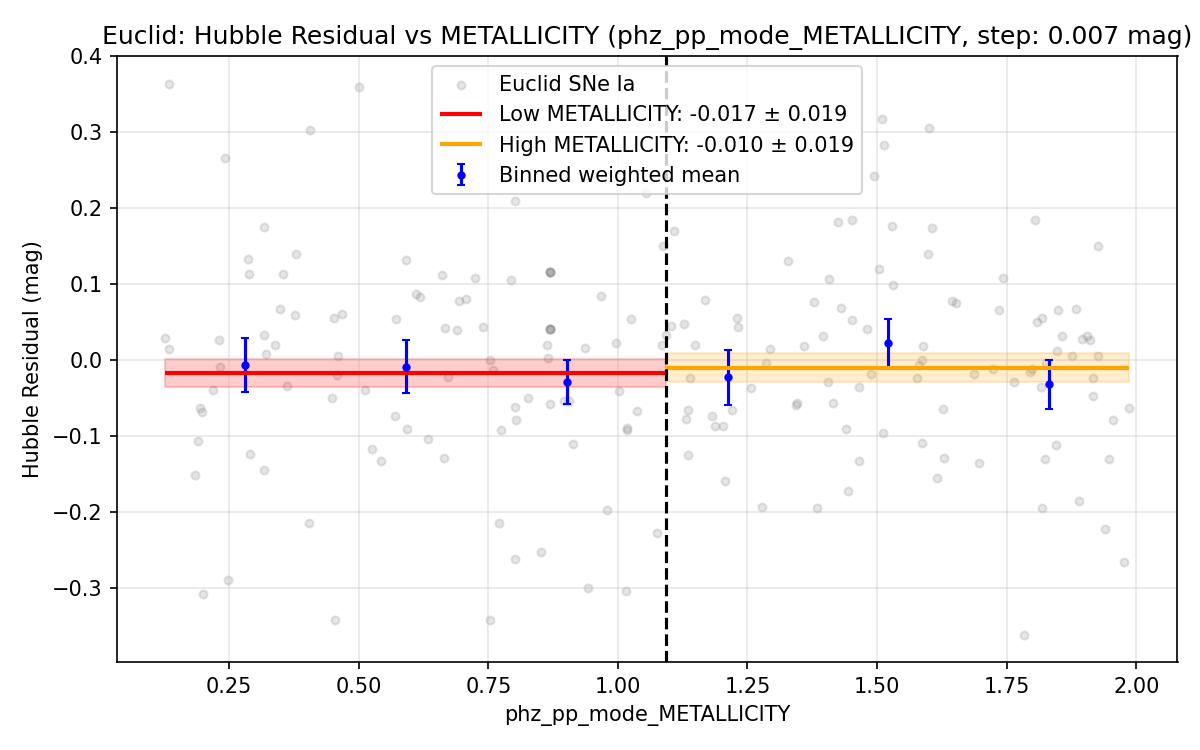
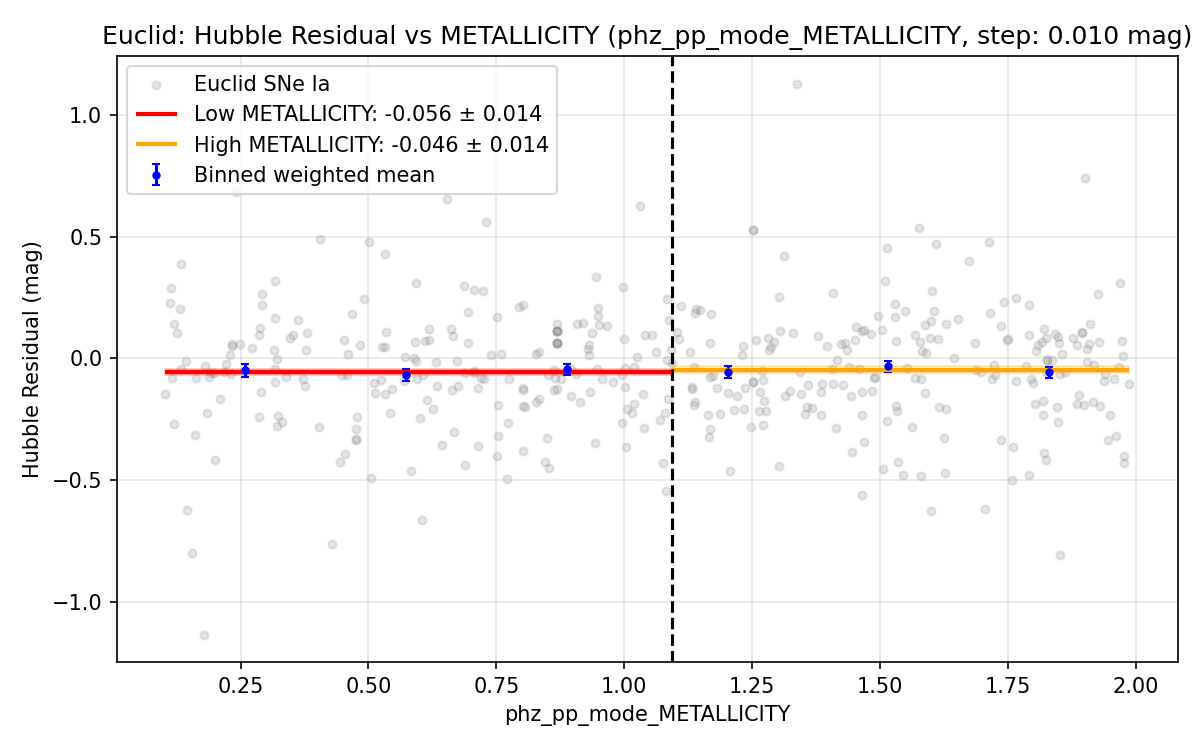
Tidy up
Removed bias correction for when mass wasn't calculated
Reran for better output graphs

diff --git a/DES Analysis/analysis_tools.py b/DES Analysis/analysis_tools.py
@@ -23,6 +23,21 @@ def calculate_physics(df, alpha=ALPHA, beta=BETA, m0=M0_AVG, omega_m=OMEGA_M):
     df['hubble_residual'] = df['mu_no_mass'] - df['mu_expected']
     return df
 
+def calculate_physics2(df, alpha=ALPHA, beta=BETA, m0=M0_AVG, omega_m=OMEGA_M):
+    """Calculates expectations, residuals, and corrections (DES 5-year parameters)."""
+    cosmo = FlatLambdaCDM(H0=70, Om0=omega_m)
+
+    # Expected distance modulus from redshift
+    df['mu_expected'] = cosmo.distmod(df['zHD']).value
+
+    # Recalculate MU without mass correction: μ = mB + α*x1 - β*c - bias - M0 (no γ*step)
+    df['mu_no_mass'] = -2.5*np.log10(df['x0']) + (alpha * df['x1']) - (beta * df['c']) - m0
+
+    # Residual (observed minus expected)
+    df['hubble_residual'] = df['mu_no_mass'] - df['mu_expected']
+    return df
+
+
 def get_weighted_stats(residuals, observational_errors, bias_errors, sigma_int=0.11):
     """
     Calculates weighted mean using both observational error and intrinsic scatter.
@@ -36,6 +51,22 @@ def get_weighted_stats(residuals, observational_errors, bias_errors, sigma_int=0
     uncertainty = 1 / np.sqrt(np.sum(weights))
     
     return weighted_mean, uncertainty
+
+def get_weighted_stats2(residuals, observational_errors, sigma_int=0.11):
+    """
+    Calculates weighted mean using both observational error and intrinsic scatter.
+    """
+    # Total variance is the sum of squares of errors
+    total_error = np.sqrt(observational_errors**2 + sigma_int**2 )
+    weights = 1 / (total_error**2)
+    
+    weighted_mean = np.average(residuals, weights=weights)
+    # Uncertainty of the mean
+    uncertainty = 1 / np.sqrt(np.sum(weights))
+    
+    return weighted_mean, uncertainty
+
+
 
 def run_stats(low_res, high_res):
     """Runs T-Test and KS-Test between two mass bins."""
@@ -55,5 +86,19 @@ def binned_weighted_mean(x, y, observational_errors, bias_errors,  bins=6, sigma
             mask = (x >= edges[i]) & (x <= edges[i + 1])
         if np.sum(mask) > 0:
             means[i], errs[i] = get_weighted_stats(y[mask], observational_errors[mask], bias_errors[mask], sigma_int=sigma_int)
+    return centers, means, errs
+
+def binned_weighted_mean2(x, y, observational_errors,  bins=6, sigma_int=0.11):
+    """Returns bin centers, weighted means, and uncertainties per bin."""
+    edges = np.linspace(x.min(), x.max(), bins + 1)
+    centers = (edges[:-1] + edges[1:]) / 2
+    means = np.full(bins, np.nan)
+    errs = np.full(bins, np.nan)
+    for i in range(bins):
+        mask = (x >= edges[i]) & (x < edges[i + 1])
+        if i == bins - 1:
+            mask = (x >= edges[i]) & (x <= edges[i + 1])
+        if np.sum(mask) > 0:
+            means[i], errs[i] = get_weighted_stats2(y[mask], observational_errors[mask], sigma_int=sigma_int)
     return centers, means, errs
 

diff --git a/Euclid Analysis/euclid_sfr_step.py b/Euclid Analysis/euclid_sfr_step.py
@@ -3,7 +3,7 @@ import numpy as np
 import pandas as pd
 from pathlib import Path
 from data_handler import download_file, load_snana_format
-from analysis_tools import calculate_physics, get_weighted_stats, run_stats, binned_weighted_mean
+from analysis_tools import calculate_physics2, get_weighted_stats2, run_stats, binned_weighted_mean2
 
 # EUCLID CSV PATH
 SCRIPT_DIR = Path(__file__).resolve().parent
@@ -23,32 +23,32 @@ df_hd = load_snana_format(hd_path)
 df_meta = load_snana_format(meta_path)
 df_hd["CID_num"] = pd.to_numeric(df_hd["CID"], errors="coerce")
 df_hd = df_hd.dropna(subset=["CID_num", "zHD", "MU", "MUERR"]).copy()
-df_hd = df_hd[df_hd["PROBIA_BEAMS"] > 0.999999]
+df_hd = df_hd[df_hd["PROBIA_BEAMS"] > 0.95]
 
 # MERGE EUCLID WITH DES (DES_ID_x = CID)
 df = df_euclid[["DES_ID_x", "SFR"]].merge(
     df_hd[["CID_num", "CID", "zHD", "MU", "MUERR", "PROBIA_BEAMS"]],
     left_on="DES_ID_x", right_on="CID_num", how="inner"
 )
-df = df.merge(df_meta[["CID", "mB", "x1", "c", "x0", "biasCor_mu"]], on="CID", how="left")
+df = df.merge(df_meta[["CID", "mB", "x1", "c", "x0"]], on="CID", how="left")
 df = df.dropna(subset=["zHD", "mB", "x1", "c", "SFR", "MUERR", "x0"])
 
 # PHYSICS
-df = calculate_physics(df)
+df = calculate_physics2(df)
 
-df = df[df["SFR"] > -6.9]
+df = df[df["SFR"] > -10]
 
 # SFR STEP (split at median SFR)
 sfr_split = df["SFR"].median()
 low_df = df[df["SFR"] < sfr_split]
 high_df = df[df["SFR"] >= sfr_split]
-w_mean_low, w_err_low = get_weighted_stats(low_df["hubble_residual"], low_df["MUERR"])
-w_mean_high, w_err_high = get_weighted_stats(high_df["hubble_residual"], high_df["MUERR"])
+w_mean_low, w_err_low = get_weighted_stats2(low_df["hubble_residual"], low_df["MUERR"])
+w_mean_high, w_err_high = get_weighted_stats2(high_df["hubble_residual"], high_df["MUERR"])
 sfr_step = w_mean_high - w_mean_low
 stats = run_stats(low_df["hubble_residual"], high_df["hubble_residual"])
 
 # BINNED WEIGHTED MEAN
-bin_centers, bin_means, bin_errs = binned_weighted_mean(
+bin_centers, bin_means, bin_errs = binned_weighted_mean2(
     df["SFR"].values, df["hubble_residual"].values, df["MUERR"].values, bins=6
 )
 valid = ~np.isnan(bin_means)

diff --git a/Euclid Analysis/euclid_stellarmetallicity.py b/Euclid Analysis/euclid_stellarmetallicity.py
@@ -3,7 +3,7 @@ import numpy as np
 import pandas as pd
 from pathlib import Path
 from data_handler import download_file, load_snana_format
-from analysis_tools import calculate_physics, get_weighted_stats, run_stats, binned_weighted_mean
+from analysis_tools import calculate_physics2, get_weighted_stats2, run_stats, binned_weighted_mean2
 
 # EUCLID CSV PATH
 SCRIPT_DIR = Path(__file__).resolve().parent
@@ -23,7 +23,7 @@ df_hd = load_snana_format(hd_path)
 df_meta = load_snana_format(meta_path)
 df_hd["CID_num"] = pd.to_numeric(df_hd["CID"], errors="coerce")
 df_hd = df_hd.dropna(subset=["CID_num", "zHD", "MU", "MUERR"]).copy()
-df_hd = df_hd[df_hd["PROBIA_BEAMS"] > 0.999999]
+df_hd = df_hd[df_hd["PROBIA_BEAMS"] > 0.95]
 
 # MERGE EUCLID WITH DES (DES_ID_x = CID)
 df = df_euclid[["DES_ID_x", "METALLICITY"]].merge(
@@ -34,19 +34,19 @@ df = df.merge(df_meta[["CID", "mB", "x1", "c", "x0", "biasCor_mu"]], on="CID", h
 df = df.dropna(subset=["zHD", "mB", "x1", "c", "METALLICITY", "MUERR", "x0"])
 
 # PHYSICS
-df = calculate_physics(df)
+df = calculate_physics2(df)
 
 # METALLICITY STEP (split at median METALLICITY)
 METALLICITY_split = df["METALLICITY"].median()
 low_df = df[df["METALLICITY"] < METALLICITY_split]
 high_df = df[df["METALLICITY"] >= METALLICITY_split]
-w_mean_low, w_err_low = get_weighted_stats(low_df["hubble_residual"], low_df["MUERR"])
-w_mean_high, w_err_high = get_weighted_stats(high_df["hubble_residual"], high_df["MUERR"])
+w_mean_low, w_err_low = get_weighted_stats2(low_df["hubble_residual"], low_df["MUERR"])
+w_mean_high, w_err_high = get_weighted_stats2(high_df["hubble_residual"], high_df["MUERR"])
 METALLICITY_step = w_mean_high - w_mean_low
 stats = run_stats(low_df["hubble_residual"], high_df["hubble_residual"])
 
 # BINNED WEIGHTED MEAN
-bin_centers, bin_means, bin_errs = binned_weighted_mean(
+bin_centers, bin_means, bin_errs = binned_weighted_mean2(
     df["METALLICITY"].values, df["hubble_residual"].values, df["MUERR"].values, bins=6
 )
 valid = ~np.isnan(bin_means)

diff --git a/Euclid Analysis/euclid_mass_step.py b/Euclid Analysis/euclid_mass_step.py
@@ -3,7 +3,7 @@ import numpy as np
 import pandas as pd
 from pathlib import Path
 from data_handler import download_file, load_snana_format
-from analysis_tools import calculate_physics, get_weighted_stats, run_stats, binned_weighted_mean
+from analysis_tools import calculate_physics2, get_weighted_stats2, run_stats, binned_weighted_mean2
 
 # EUCLID CSV PATH 
 SCRIPT_DIR = Path(__file__).resolve().parent
@@ -26,7 +26,7 @@ df_hd = load_snana_format(hd_path)
 df_meta = load_snana_format(meta_path)
 df_hd["CID_num"] = pd.to_numeric(df_hd["CID"], errors="coerce")
 df_hd = df_hd.dropna(subset=["CID_num", "zHD", "MU", "MUERR"]).copy()
-df_hd = df_hd[df_hd["PROBIA_BEAMS"] > 0.999999]
+df_hd = df_hd[df_hd["PROBIA_BEAMS"] > 0.95]
 
 # MERGE EUCLID WITH DES (DES_ID_x = CID)
 df = df_euclid[["DES_ID_x", "HOST_LOGMASS"]].merge(
@@ -37,18 +37,18 @@ df = df.merge(df_meta[["CID", "mB", "x1", "c", "x0", "biasCor_mu"]], on="CID", h
 df = df.dropna(subset=["zHD", "mB", "x1", "c", "HOST_LOGMASS", "MUERR", "x0"])
 
 # PHYSICS
-df = calculate_physics(df)
+df = calculate_physics2(df)
 
 # MASS STEP (WEIGHTED)
 low_df = df[df["HOST_LOGMASS"] < 10]
 high_df = df[df["HOST_LOGMASS"] >= 10]
-w_mean_low, w_err_low = get_weighted_stats(low_df["hubble_residual"], low_df["MUERR"])
-w_mean_high, w_err_high = get_weighted_stats(high_df["hubble_residual"], high_df["MUERR"])
+w_mean_low, w_err_low = get_weighted_stats2(low_df["hubble_residual"], low_df["MUERR"])
+w_mean_high, w_err_high = get_weighted_stats2(high_df["hubble_residual"], high_df["MUERR"])
 mass_step = w_mean_high - w_mean_low
 stats = run_stats(low_df["hubble_residual"], high_df["hubble_residual"])
 
 # BINNED WEIGHTED MEAN
-bin_centers, bin_means, bin_errs = binned_weighted_mean(
+bin_centers, bin_means, bin_errs = binned_weighted_mean2(
     df["HOST_LOGMASS"].values, df["hubble_residual"].values, df["MUERR"].values, bins=6
 )
 valid = ~np.isnan(bin_means)

diff --git a/DES Analysis/DES_SFR.py b/DES Analysis/DES_SFR.py
@@ -2,29 +2,31 @@ import matplotlib.pyplot as plt
 import numpy as np
 from pathlib import Path
 from data_handler import download_file, load_snana_format
-from analysis_tools import calculate_physics, get_weighted_stats, run_stats, binned_weighted_mean
+from analysis_tools import calculate_physics2, get_weighted_stats2, run_stats, binned_weighted_mean2
 
 # LOAD DATA
 hd_path = download_file("4_DISTANCES_COVMAT/DES-Dovekie_HD.csv")
 meta_path = download_file("4_DISTANCES_COVMAT/DES-Dovekie_Metadata.csv")
 df = load_snana_format(hd_path).merge(load_snana_format(meta_path)[['CID', 'HOST_LOGSFR', 'mB', 'x1', 'c', "x0", "biasCor_mu"]], on='CID')
-df = df[df['PROBIA_BEAMS'] > 0.999999].dropna(subset=['zHD', 'mB', 'x1', 'c', 'HOST_LOGSFR', 'MUERR', "x0"])
+df = df[df['PROBIA_BEAMS'] > 0.95].dropna(subset=['zHD', 'mB', 'x1', 'c', 'HOST_LOGSFR', 'MUERR', "x0"])
 
 # PHYSICS
-df = calculate_physics(df)
+df = calculate_physics2(df)
+
+df = df[df["HOST_LOGSFR"] > -5]
 
 # SFR STEP 
 sfr_split = df['HOST_LOGSFR'].median()
 low_df = df[df['HOST_LOGSFR'] < sfr_split]
 high_df = df[df['HOST_LOGSFR'] >= sfr_split]
 
-w_mean_low, w_err_low = get_weighted_stats(low_df['hubble_residual'], low_df['MUERR'])
-w_mean_high, w_err_high = get_weighted_stats(high_df['hubble_residual'], high_df['MUERR'])
+w_mean_low, w_err_low = get_weighted_stats2(low_df['hubble_residual'], low_df['MUERR'])
+w_mean_high, w_err_high = get_weighted_stats2(high_df['hubble_residual'], high_df['MUERR'])
 sfr_step = w_mean_high - w_mean_low
 stats = run_stats(low_df['hubble_residual'], high_df['hubble_residual'])
 
 # BINNED WEIGHTED MEAN
-bin_centers, bin_means, bin_errs = binned_weighted_mean(
+bin_centers, bin_means, bin_errs = binned_weighted_mean2(
     df['HOST_LOGSFR'].values, df['hubble_residual'].values, df['MUERR'].values, bins=6
 )
 valid = ~np.isnan(bin_means)

diff --git a/Euclid Analysis/euclid_sfhage_step.py b/Euclid Analysis/euclid_sfhage_step.py
@@ -3,7 +3,7 @@ import numpy as np
 import pandas as pd
 from pathlib import Path
 from data_handler import download_file, load_snana_format
-from analysis_tools import calculate_physics, get_weighted_stats, run_stats, binned_weighted_mean
+from analysis_tools import calculate_physics2, get_weighted_stats2, run_stats, binned_weighted_mean2
 
 # EUCLID CSV PATH
 SCRIPT_DIR = Path(__file__).resolve().parent
@@ -34,20 +34,20 @@ df = df.merge(df_meta[["CID", "mB", "x1", "c", "x0", "biasCor_mu"]], on="CID", h
 df = df.dropna(subset=["zHD", "mB", "x1", "c", "SFH_AGE", "MUERR", "x0"])
 
 # PHYSICS
-df = calculate_physics(df)
+df = calculate_physics2(df)
 
 # AGE STEP (split at median SFH age)
 age_split = df["SFH_AGE"].median()
 low_df = df[df["SFH_AGE"] < age_split]
 high_df = df[df["SFH_AGE"] >= age_split]
 
-w_mean_low, w_err_low = get_weighted_stats(low_df["hubble_residual"], low_df["MUERR"])
-w_mean_high, w_err_high = get_weighted_stats(high_df["hubble_residual"], high_df["MUERR"])
+w_mean_low, w_err_low = get_weighted_stats2(low_df["hubble_residual"], low_df["MUERR"])
+w_mean_high, w_err_high = get_weighted_stats2(high_df["hubble_residual"], high_df["MUERR"])
 age_step = w_mean_high - w_mean_low
 stats = run_stats(low_df["hubble_residual"], high_df["hubble_residual"])
 
 # BINNED WEIGHTED MEAN
-bin_centers, bin_means, bin_errs = binned_weighted_mean(
+bin_centers, bin_means, bin_errs = binned_weighted_mean2(
     df["SFH_AGE"].values, df["hubble_residual"].values, df["MUERR"].values, bins=6
 )
 valid = ~np.isnan(bin_means)

diff --git a/Euclid Analysis/euclid_sfr_threshhold_pass_t.py b/Euclid Analysis/euclid_sfr_threshhold_pass_t.py
@@ -3,7 +3,7 @@ import numpy as np
 import pandas as pd
 from pathlib import Path
 from data_handler import download_file, load_snana_format
-from analysis_tools import calculate_physics, get_weighted_stats, run_stats, binned_weighted_mean
+from analysis_tools import calculate_physics2, get_weighted_stats, run_stats, binned_weighted_mean
 
 # EUCLID CSV PATH
 SCRIPT_DIR = Path(__file__).resolve().parent
@@ -34,11 +34,11 @@ df = df.merge(df_meta[["CID", "mB", "x1", "c", "x0", "biasCor_mu"]], on="CID", h
 df = df.dropna(subset=["zHD", "mB", "x1", "c", "SFR", "MUERR", "x0"])
 
 # PHYSICS
-df = calculate_physics(df)
+df = calculate_physics2(df)
 
-# ------------------------------------------------------------
-# SCAN LOWER SFR CUT TO FIND SIGNIFICANCE THRESHOLD
-# ------------------------------------------------------------
+
+# REQUIRE T TEST SIGNIFICANCE
+
 alpha = 0.05
 min_n_per_bin = 5
 

diff --git a/Euclid Analysis/euclid_sfr_threshhold_pass_both.py b/Euclid Analysis/euclid_sfr_threshhold_pass_both.py
@@ -3,7 +3,7 @@ import numpy as np
 import pandas as pd
 from pathlib import Path
 from data_handler import download_file, load_snana_format
-from analysis_tools import calculate_physics, get_weighted_stats, run_stats, binned_weighted_mean
+from analysis_tools import calculate_physics2, get_weighted_stats2, run_stats, binned_weighted_mean2
 
 # EUCLID CSV PATH
 SCRIPT_DIR = Path(__file__).resolve().parent
@@ -34,11 +34,9 @@ df = df.merge(df_meta[["CID", "mB", "x1", "c", "x0", "biasCor_mu"]], on="CID", h
 df = df.dropna(subset=["zHD", "mB", "x1", "c", "SFR", "MUERR", "x0"])
 
 # PHYSICS
-df = calculate_physics(df)
+df = calculate_physics2(df)
 
-# ------------------------------------------------------------
 # REQUIRE BOTH t-test AND KS-test SIGNIFICANCE
-# ------------------------------------------------------------
 alpha = 0.05
 min_n_per_bin = 5
 

diff --git a/DES Analysis/DES_redshift.py b/DES Analysis/DES_redshift.py
@@ -3,7 +3,7 @@ import numpy as np
 from pathlib import Path
 from astropy.cosmology import FlatLambdaCDM
 from data_handler import download_file, load_snana_format
-from analysis_tools import OMEGA_M, binned_weighted_mean
+from analysis_tools import OMEGA_M, binned_weighted_mean2
 
 # LOAD DATA (HD file only — use MU from HD so residuals are centered at zero, like lab 23.1)
 hd_path = download_file("4_DISTANCES_COVMAT/DES-Dovekie_HD.csv")
@@ -17,7 +17,7 @@ df["hubble_residual"] = df["MU"] - df["mu_expected"]
 scatter = np.std(df["hubble_residual"])
 
 # BINNED WEIGHTED MEAN (no per-point error bars)
-bin_centers, bin_means, bin_errs = binned_weighted_mean(
+bin_centers, bin_means, bin_errs = binned_weighted_mean2(
     df["zHD"].values, df["hubble_residual"].values, df["MUERR"].values, bins=6
 )
 valid = ~np.isnan(bin_means)

diff --git a/Euclid Analysis/Euc_SersicIndex.py b/Euclid Analysis/Euc_SersicIndex.py
@@ -49,7 +49,7 @@ df_meta = load_snana_format(meta_path)
 # Prepare DES HD
 df_hd["CID_num"] = pd.to_numeric(df_hd["CID"], errors="coerce")
 df_hd = df_hd.dropna(subset=["CID_num", "zHD", "MU", "MUERR"]).copy()
-df_hd = df_hd[df_hd["PROBIA_BEAMS"] > 0.999999]
+df_hd = df_hd[df_hd["PROBIA_BEAMS"] > 0.95]
 
 
 # Merge Euclid with DES HD

diff --git a/Euclid Analysis/Euc_conc.py b/Euclid Analysis/Euc_conc.py
@@ -49,7 +49,7 @@ df_meta = load_snana_format(meta_path)
 # Prepare DES HD
 df_hd["CID_num"] = pd.to_numeric(df_hd["CID"], errors="coerce")
 df_hd = df_hd.dropna(subset=["CID_num", "zHD", "MU", "MUERR"]).copy()
-df_hd = df_hd[df_hd["PROBIA_BEAMS"] > 0.999999]
+df_hd = df_hd[df_hd["PROBIA_BEAMS"] > 0.95]
 
 
 # Merge Euclid with DES HD

diff --git a/Euclid Analysis/Euc_conc_nobias.py b/Euclid Analysis/Euc_conc_nobias.py
@@ -47,7 +47,7 @@ df_meta = load_snana_format(meta_path)
 # Prepare DES HD
 df_hd["CID_num"] = pd.to_numeric(df_hd["CID"], errors="coerce")
 df_hd = df_hd.dropna(subset=["CID_num", "zHD", "MU", "MUERR"]).copy()
-df_hd = df_hd[df_hd["PROBIA_BEAMS"] > 0.999999]
+df_hd = df_hd[df_hd["PROBIA_BEAMS"] > 0.95]
 
 
 # Merge Euclid with DES HD
